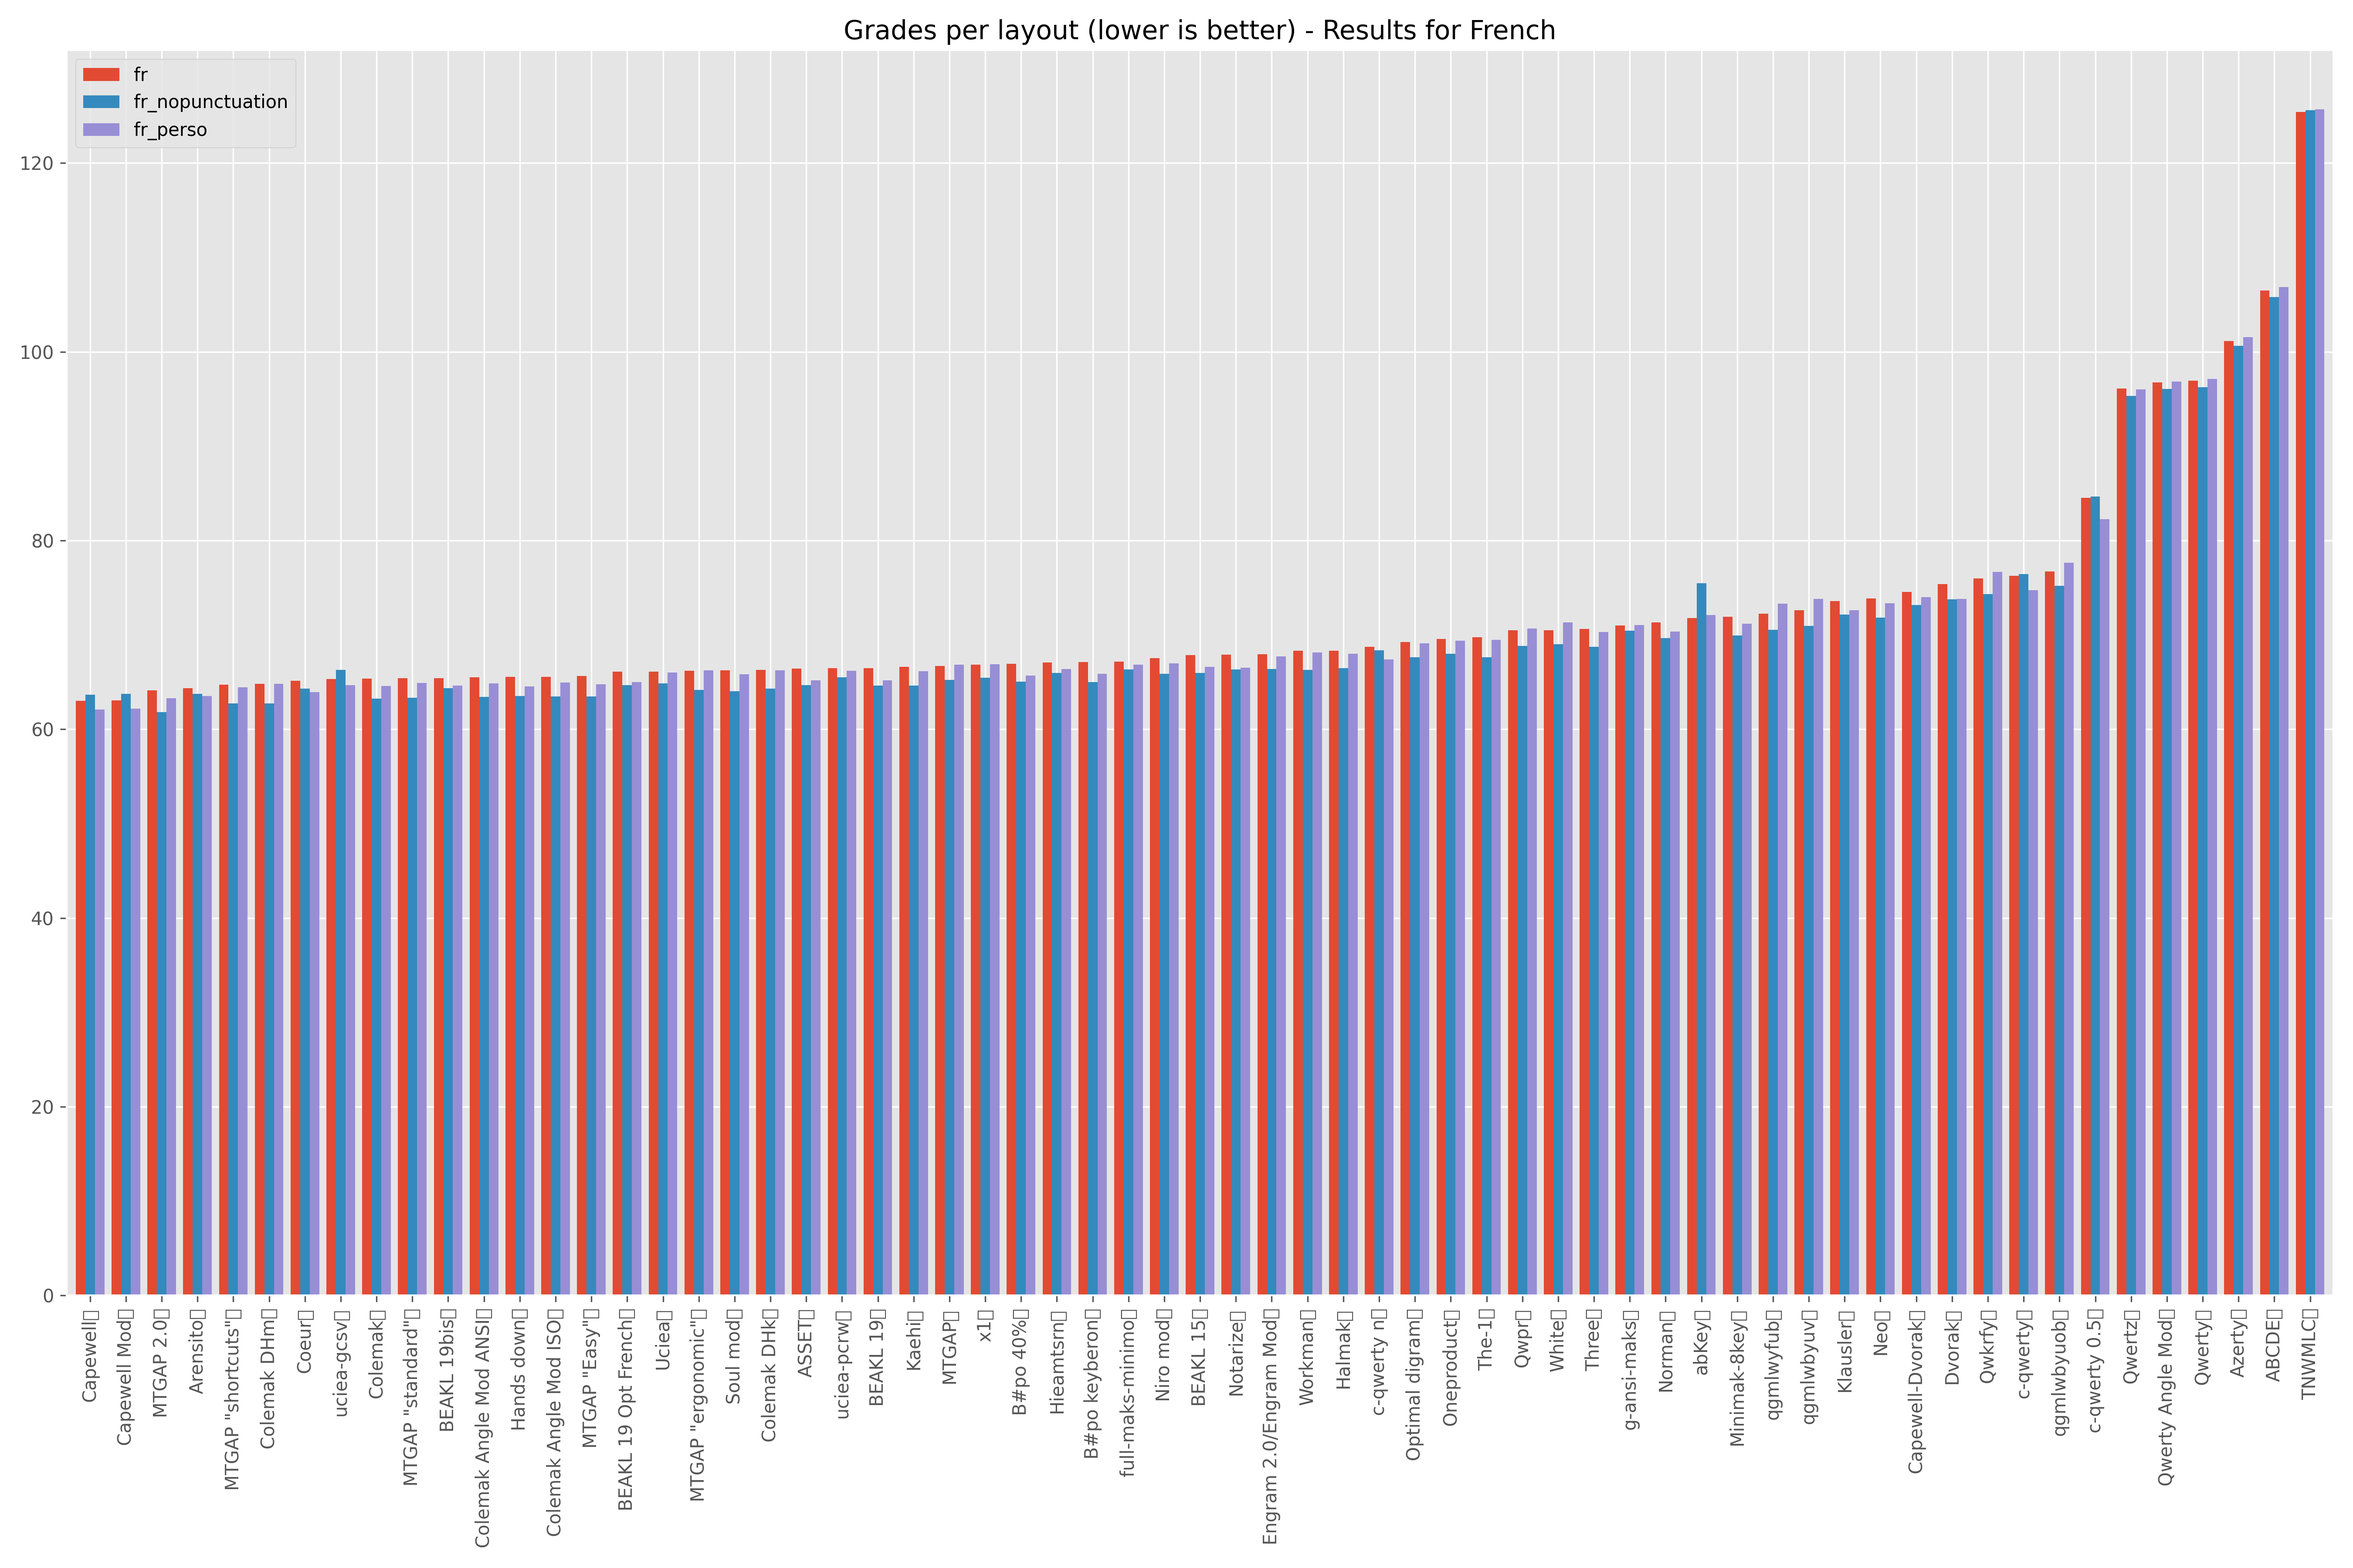
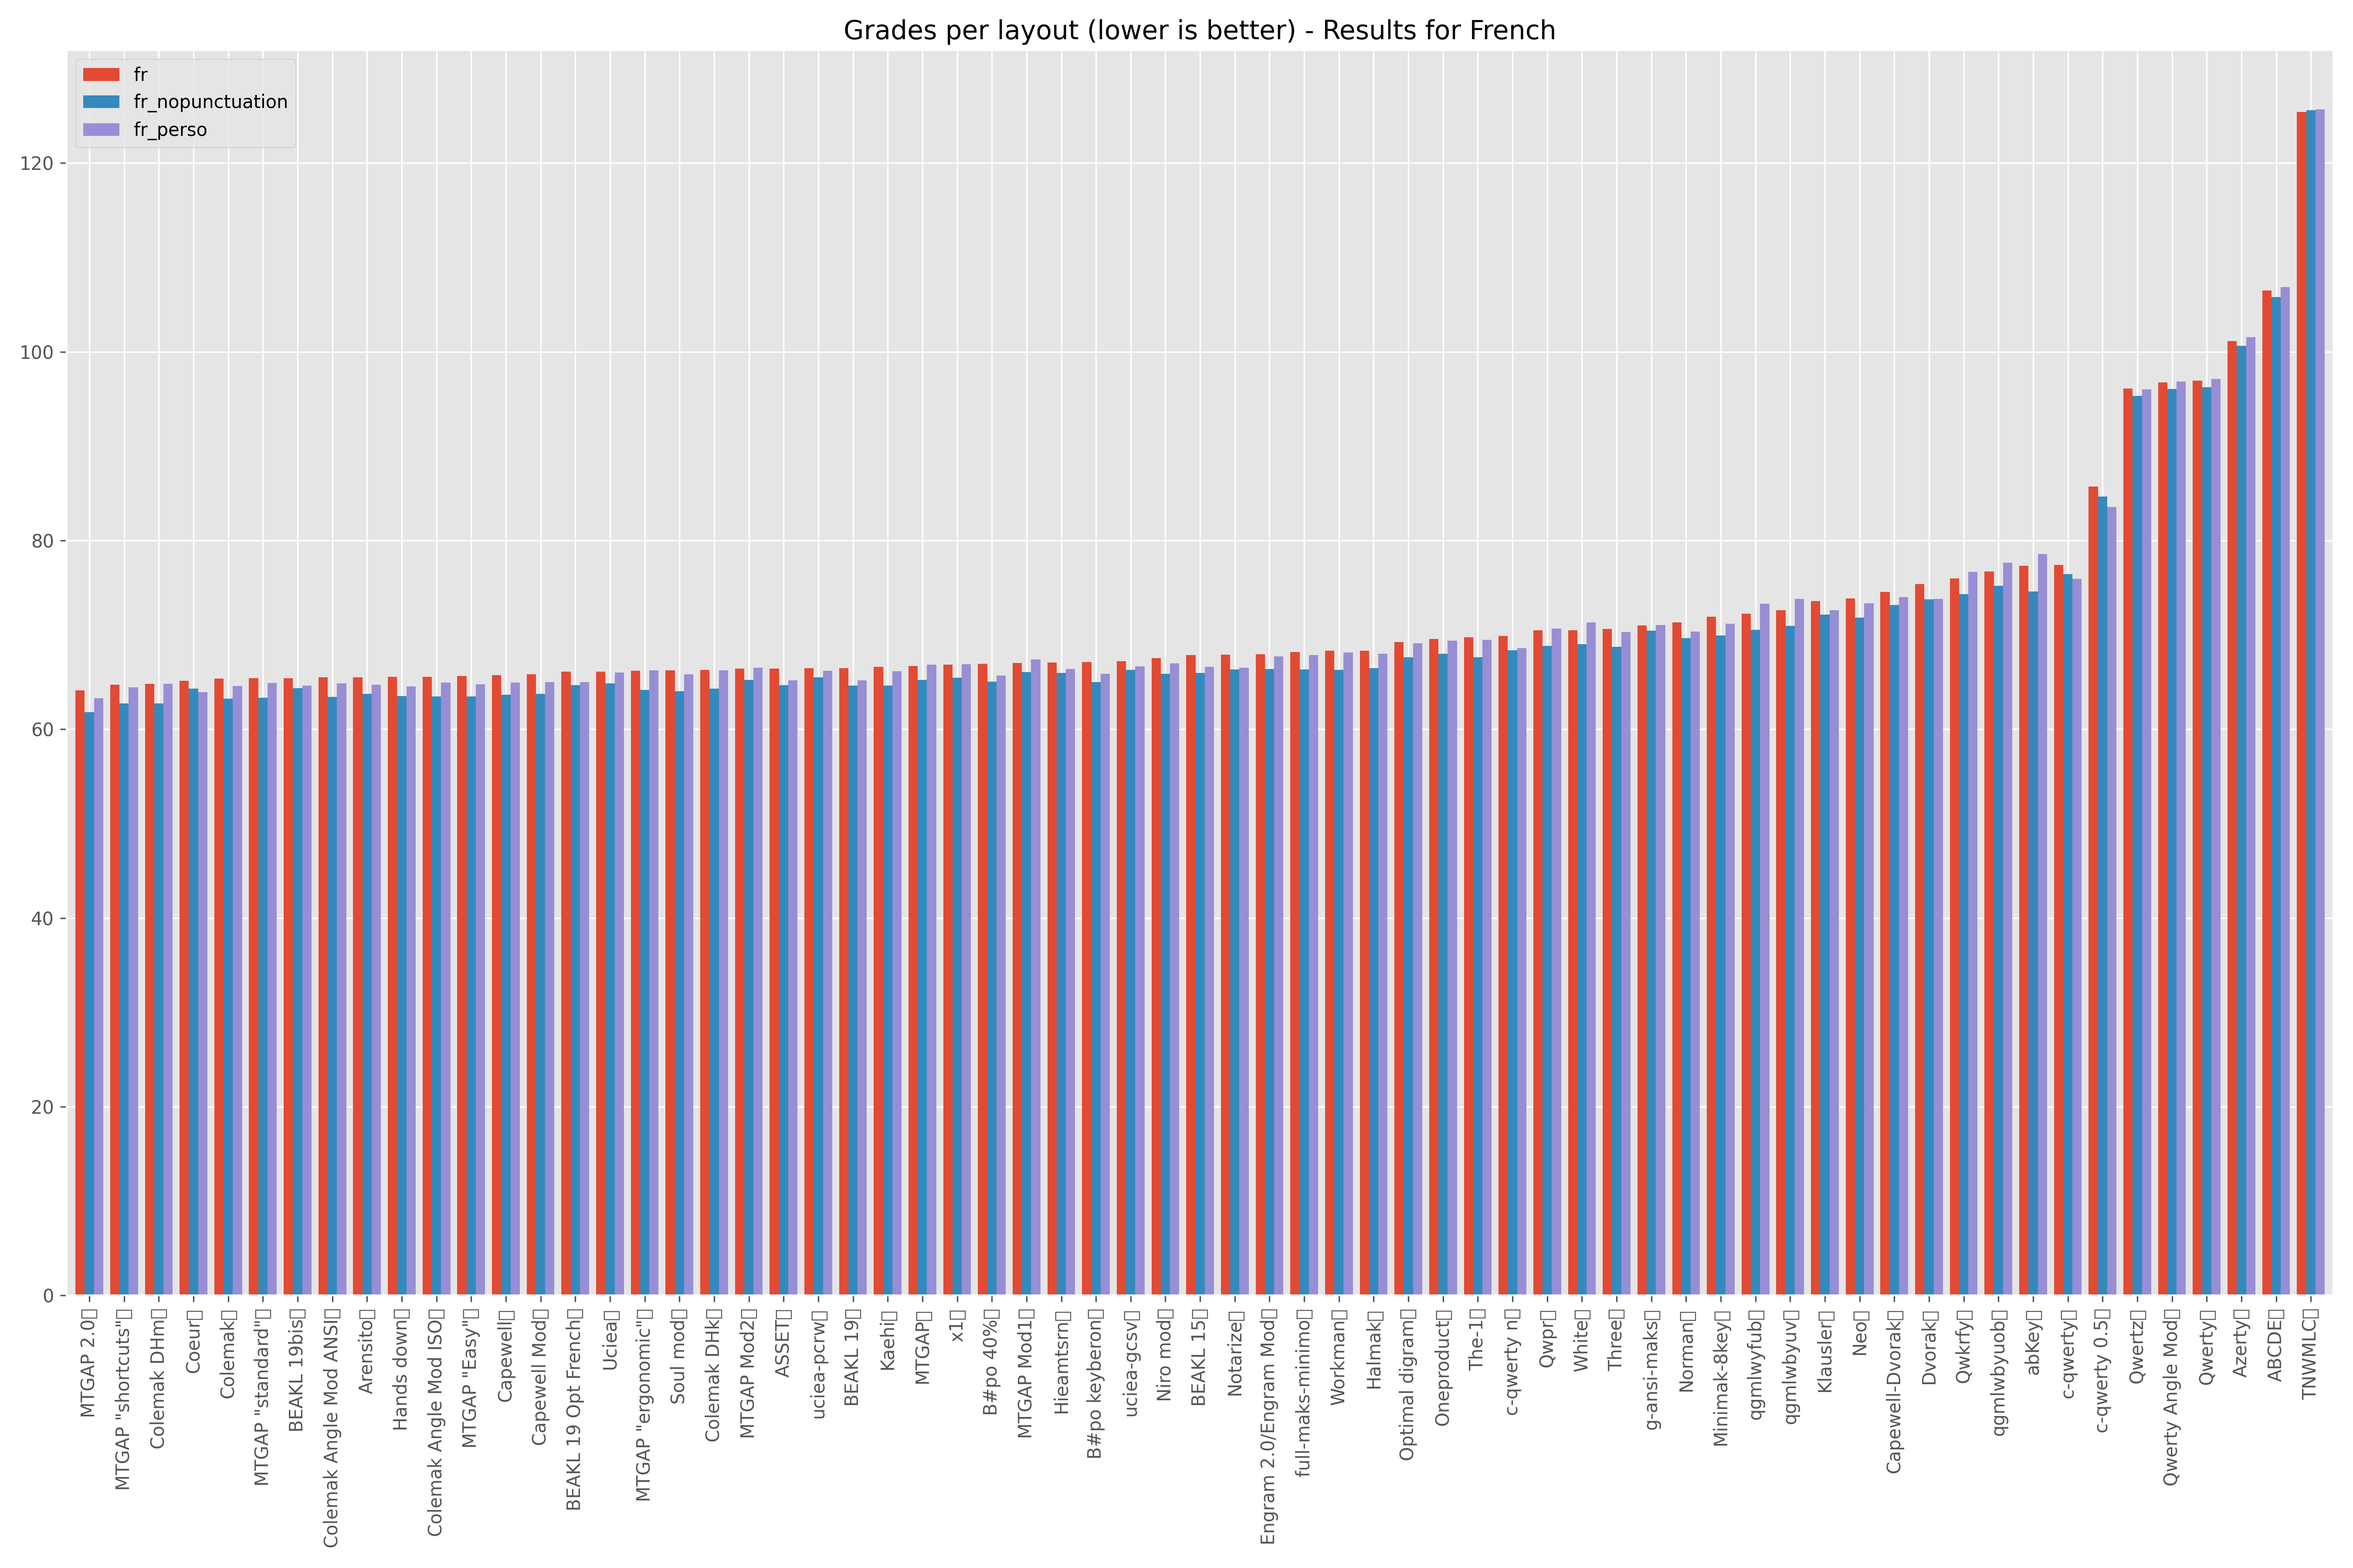
add MTGAP mods and minor fixes

diff --git a/README.md b/README.md
@@ -228,28 +228,29 @@ Here is the complete results list. The layouts can be seen in `config.txt`.
 
 | Layout | English | English perso | English No Punctuation | English Avg | French | French perso | Spanish | German | Swedish | Full Avg |
 | :-------------------------------------------------------------------------------------------------------------------------------------------- | ------: | ------------: | -----: | -----------: | ------: | -----: | ------: | ------: | ------: | ------: |
+| MTGAP Mod2 | 64.45 | 63.13 | 63.63 | 63.736667 | 66.43 | 66.52 | 66.14 | 67.15 | 67.38 | 66.176333 |
 | MTGAP | 64.48 | 63.16 | 63.63 | 63.756667 | 66.72 | 66.82 | 66.14 | 67.15 | 67.38 | 66.239333 |
 | BEAKL 19bis | 64.51 | 63.46 | 63.81 | 63.926667 | 65.42 | 64.62 | 64.45 | 67.92 | 69.00 | 66.063333 |
+| MTGAP Mod1 | 64.57 | 63.31 | 63.86 | 63.913333 | 67.02 | 67.39 | 67.09 | 67.54 | 67.47 | 66.643667 |
 | Engram 2.0/Engram Mod | 64.58 | 63.31 | 63.61 | 63.833333 | 67.95 | 67.72 | 66.52 | 69.11 | 69.47 | 67.353667 |
 | Colemak DHm | 64.66 | 64.30 | 63.44 | 64.133333 | 64.82 | 64.81 | 64.18 | 64.70 | 68.16 | 65.197667 |
-| Capewell Mod | 64.68 | 64.35 | 64.54 | 64.523333 | 63.06 | 62.17 | 65.80 | 66.87 | 67.62 | 65.485667 |
-| Capewell | 64.77 | 64.58 | 64.62 | 64.656667 | 62.99 | 62.08 | 65.85 | 66.88 | 67.77 | 65.538333 |
 | The-1 | 64.80 | 63.19 | 63.32 | 63.770000 | 69.74 | 69.45 | 68.97 | 67.54 | 70.26 | 68.027000 |
 | Hieamtsrn | 64.90 | 64.09 | 64.31 | 64.433333 | 67.07 | 66.37 | 65.86 | 67.24 | 68.30 | 66.510667 |
 | MTGAP 2.0 | 64.91 | 64.43 | 63.29 | 64.210000 | 64.13 | 63.27 | 64.01 | 64.98 | 66.77 | 64.734000 |
-| Arensito | 64.92 | 64.45 | 64.65 | 64.673333 | 64.34 | 63.51 | 66.05 | 65.64 | 68.90 | 65.837667 |
 | MTGAP "ergonomic" | 64.99 | 64.95 | 63.66 | 64.533333 | 66.20 | 66.25 | 64.81 | 66.23 | 66.72 | 65.703667 |
 | White | 65.10 | 63.99 | 64.18 | 64.423333 | 70.50 | 71.32 | 68.09 | 66.50 | 69.55 | 67.894667 |
-| full-maks-minimo | 65.37 | 64.62 | 64.61 | 64.866667 | 67.15 | 66.82 | 68.27 | 67.80 | 67.29 | 67.042333 |
 | Kaehi | 65.56 | 64.18 | 64.33 | 64.690000 | 66.59 | 66.14 | 65.92 | 67.83 | 67.94 | 66.549000 |
+| Arensito | 65.60 | 65.15 | 64.65 | 65.133333 | 65.52 | 64.74 | 66.05 | 65.64 | 68.90 | 66.170667 |
 | x1 | 65.63 | 64.86 | 64.79 | 65.093333 | 66.86 | 66.89 | 66.28 | 68.03 | 67.91 | 66.837667 |
 | Colemak DHk | 65.71 | 65.28 | 64.51 | 65.166667 | 66.29 | 66.26 | 65.67 | 65.43 | 68.46 | 66.200333 |
+| Capewell Mod | 65.83 | 65.55 | 64.54 | 65.306667 | 65.81 | 65.01 | 65.80 | 66.87 | 67.62 | 66.201333 |
 | Workman | 65.83 | 65.50 | 64.65 | 65.326667 | 68.30 | 68.11 | 66.85 | 66.93 | 71.31 | 67.724333 |
 | MTGAP "standard" | 65.84 | 65.24 | 64.52 | 65.200000 | 65.41 | 64.89 | 64.43 | 66.78 | 66.74 | 65.660000 |
 | Soul mod | 65.89 | 65.52 | 64.67 | 65.360000 | 66.25 | 65.83 | 64.71 | 64.38 | 68.37 | 65.772000 |
+| Capewell | 65.92 | 65.77 | 64.62 | 65.436667 | 65.75 | 64.93 | 65.85 | 66.88 | 67.77 | 66.255333 |
+| full-maks-minimo | 65.93 | 65.20 | 64.61 | 65.246667 | 68.16 | 67.86 | 68.27 | 67.80 | 67.29 | 67.323333 |
 | BEAKL 19 | 65.98 | 64.99 | 64.75 | 65.240000 | 66.47 | 65.20 | 66.12 | 66.99 | 68.85 | 66.607000 |
 | MTGAP "shortcuts" | 66.02 | 65.58 | 64.74 | 65.446667 | 64.73 | 64.45 | 62.72 | 65.44 | 66.34 | 64.907333 |
-| uciea-gcsv | 66.22 | 65.99 | 66.72 | 66.310000 | 65.30 | 64.68 | 66.55 | 68.09 | 71.39 | 67.466000 |
 | BEAKL 19 Opt French | 66.32 | 65.23 | 65.32 | 65.623333 | 66.08 | 64.99 | 65.85 | 65.31 | 69.32 | 66.327667 |
 | Uciea | 66.43 | 66.13 | 65.77 | 66.110000 | 66.10 | 66.01 | 65.01 | 65.99 | 68.32 | 66.297000 |
 | Oneproduct | 66.44 | 66.06 | 65.38 | 65.960000 | 69.56 | 69.36 | 68.07 | 68.45 | 69.22 | 68.232000 |
@@ -259,6 +260,7 @@ Here is the complete results list. The layouts can be seen in `config.txt`.
 | Colemak Angle Mod ISO | 66.88 | 67.01 | 65.70 | 66.530000 | 65.56 | 64.94 | 65.60 | 67.01 | 68.14 | 66.506000 |
 | Colemak | 67.15 | 67.07 | 65.97 | 66.730000 | 65.35 | 64.58 | 65.37 | 67.77 | 68.82 | 66.731000 |
 | uciea-pcrw | 67.23 | 67.14 | 66.60 | 66.990000 | 66.45 | 66.19 | 66.07 | 66.62 | 68.80 | 66.960000 |
+| uciea-gcsv | 67.39 | 67.20 | 66.72 | 67.103333 | 67.22 | 66.66 | 66.55 | 68.09 | 71.39 | 68.014667 |
 | Niro mod | 67.41 | 67.38 | 66.36 | 67.050000 | 67.53 | 67.00 | 66.58 | 67.71 | 70.41 | 67.803000 |
 | BEAKL 15 | 67.43 | 66.97 | 66.48 | 66.960000 | 67.86 | 66.60 | 66.64 | 69.37 | 68.59 | 67.758000 |
 | Halmak | 67.94 | 67.44 | 66.76 | 67.380000 | 68.33 | 68.00 | 66.87 | 69.60 | 70.68 | 68.539000 |
@@ -271,20 +273,20 @@ Here is the complete results list. The layouts can be seen in `config.txt`.
 | qgmlwyfub | 70.83 | 70.39 | 69.86 | 70.360000 | 72.25 | 73.29 | 70.24 | 72.16 | 73.71 | 71.848000 |
 | g-ansi-maks | 70.94 | 70.71 | 70.59 | 70.746667 | 70.99 | 71.03 | 72.39 | 68.91 | 72.73 | 71.157333 |
 | qgmlwbyuv | 71.02 | 70.70 | 70.10 | 70.606667 | 72.63 | 73.81 | 70.86 | 74.00 | 74.53 | 72.643333 |
-| c-qwerty n | 71.26 | 71.09 | 71.04 | 71.130000 | 68.75 | 67.41 | 70.08 | 72.83 | 75.28 | 71.480000 |
 | Klausler | 71.37 | 70.46 | 70.47 | 70.766667 | 73.58 | 72.60 | 74.08 | 73.15 | 73.95 | 73.007333 |
 | Qwpr | 71.69 | 71.30 | 70.78 | 71.256667 | 70.50 | 70.68 | 69.44 | 73.07 | 71.69 | 71.209333 |
+| c-qwerty n | 71.93 | 71.78 | 71.04 | 71.583333 | 69.90 | 68.60 | 70.08 | 72.83 | 75.28 | 71.804667 |
 | Coeur | 72.29 | 72.46 | 71.67 | 72.140000 | 65.11 | 63.93 | 67.07 | 71.04 | 73.48 | 69.650000 |
 | B#po keyberon | 72.79 | 72.71 | 71.81 | 72.436667 | 67.10 | 65.86 | 68.53 | 72.07 | 73.49 | 70.601333 |
 | qgmlwbyuob | 72.93 | 71.84 | 71.97 | 72.246667 | 76.71 | 77.65 | 75.46 | 72.23 | 73.83 | 74.189333 |
 | Minimak-8key | 72.94 | 72.36 | 71.89 | 72.396667 | 71.90 | 71.19 | 71.94 | 75.20 | 73.55 | 72.926333 |
 | B#po 40% | 73.20 | 73.19 | 72.36 | 72.916667 | 66.92 | 65.69 | 68.54 | 73.10 | 73.56 | 70.884333 |
 | Dvorak | 73.74 | 72.78 | 72.96 | 73.160000 | 75.38 | 73.82 | 75.34 | 74.59 | 78.53 | 75.244000 |
-| abKey | 75.13 | 75.36 | 77.62 | 76.036667 | 71.78 | 72.08 | 74.59 | 78.56 | 78.61 | 75.945333 |
 | Neo | 76.31 | 75.50 | 75.22 | 75.676667 | 73.86 | 73.34 | 74.56 | 71.62 | 74.16 | 73.923333 |
+| abKey | 78.41 | 78.51 | 76.62 | 77.846667 | 77.33 | 78.57 | 74.03 | 79.25 | 79.66 | 77.747333 |
 | Qwkrfy | 78.58 | 77.69 | 77.71 | 77.993333 | 75.99 | 76.68 | 73.60 | 82.41 | 77.83 | 77.633667 |
-| c-qwerty | 78.78 | 78.04 | 78.88 | 78.566667 | 76.26 | 74.74 | 78.01 | 84.63 | 84.48 | 80.237333 |
-| c-qwerty 0.5 | 86.95 | 86.08 | 87.03 | 86.686667 | 84.51 | 82.25 | 83.82 | 89.65 | 90.83 | 86.873333 |
+| c-qwerty | 79.46 | 78.74 | 78.88 | 79.026667 | 77.42 | 75.94 | 78.01 | 84.63 | 84.48 | 80.565333 |
+| c-qwerty 0.5 | 87.66 | 86.81 | 87.03 | 87.166667 | 85.74 | 83.53 | 83.82 | 89.65 | 90.83 | 87.220333 |
 | Qwertz | 98.56 | 97.63 | 98.43 | 98.206667 | 96.11 | 95.99 | 93.66 | 98.31 | 95.30 | 96.305333 |
 | Qwerty Angle Mod | 99.68 | 98.94 | 99.38 | 99.333333 | 96.77 | 96.82 | 92.54 | 99.98 | 95.51 | 96.831667 |
 | Qwerty | 100.00 | 99.17 | 99.70 | 99.623333 | 96.94 | 97.10 | 92.45 | 99.74 | 96.08 | 96.982667 |
